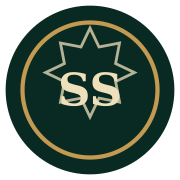
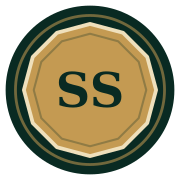
Add files via upload

diff --git a/README.md b/README.md
@@ -1,4 +1,4 @@
-# Hz. Sauna Sultan Dergâhı — GitHub Pages V5.2
+# Hz. Sauna Sultan Dergâhı — GitHub Pages V5.3
 
 Bu paket, **Sauna Sultan Manevi Değerleri Yaşatma ve Yardımlaşma Derneği**
 internet sitesinin örnek içeriklerle zenginleştirilmiş GitHub Pages sürümüdür.
@@ -12,6 +12,8 @@ GitHub Pages teknik dosyaları eklenmiştir.
 Gönüllülük bağlantıları, site içinde açılan ve başvuru bilgilerini kullanıcının
 onayıyla hazır bir WhatsApp mesajına dönüştüren forma bağlanmıştır. Form,
 GitHub Pages üzerinde herhangi bir kişisel veriyi kaydetmez.
+Marka işareti, mevcut koyu yeşil ve altın renkler korunarak altın onikigen
+içindeki “SS” monogramıyla yenilenmiştir.
 
 ## Paketteki dosyalar
 
@@ -22,7 +24,7 @@ GitHub Pages üzerinde herhangi bir kişisel veriyi kaydetmez.
 - `turbe-data.js`: 29 ziyaret noktasının adres ve açıklama verileri
 - `assets/`: Yapay zekâ ile üretilmiş temsili faaliyet görselleri
 - `assets/turbeler/`: Rehberde kullanılan optimize edilmiş gerçek mekân fotoğrafları
-- `assets/logo-mark.svg`: Site logosu ve favicon
+- `assets/logo-mark.svg`: Altın onikigen içindeki SS monogramı, site logosu ve favicon
 - `assets/social-preview.png`: WhatsApp ve sosyal medya paylaşım görseli
 - `404.html`: Özel sayfa bulunamadı ekranı
 - `robots.txt`, `site.webmanifest`: Arama motoru ve mobil web uygulaması dosyaları
